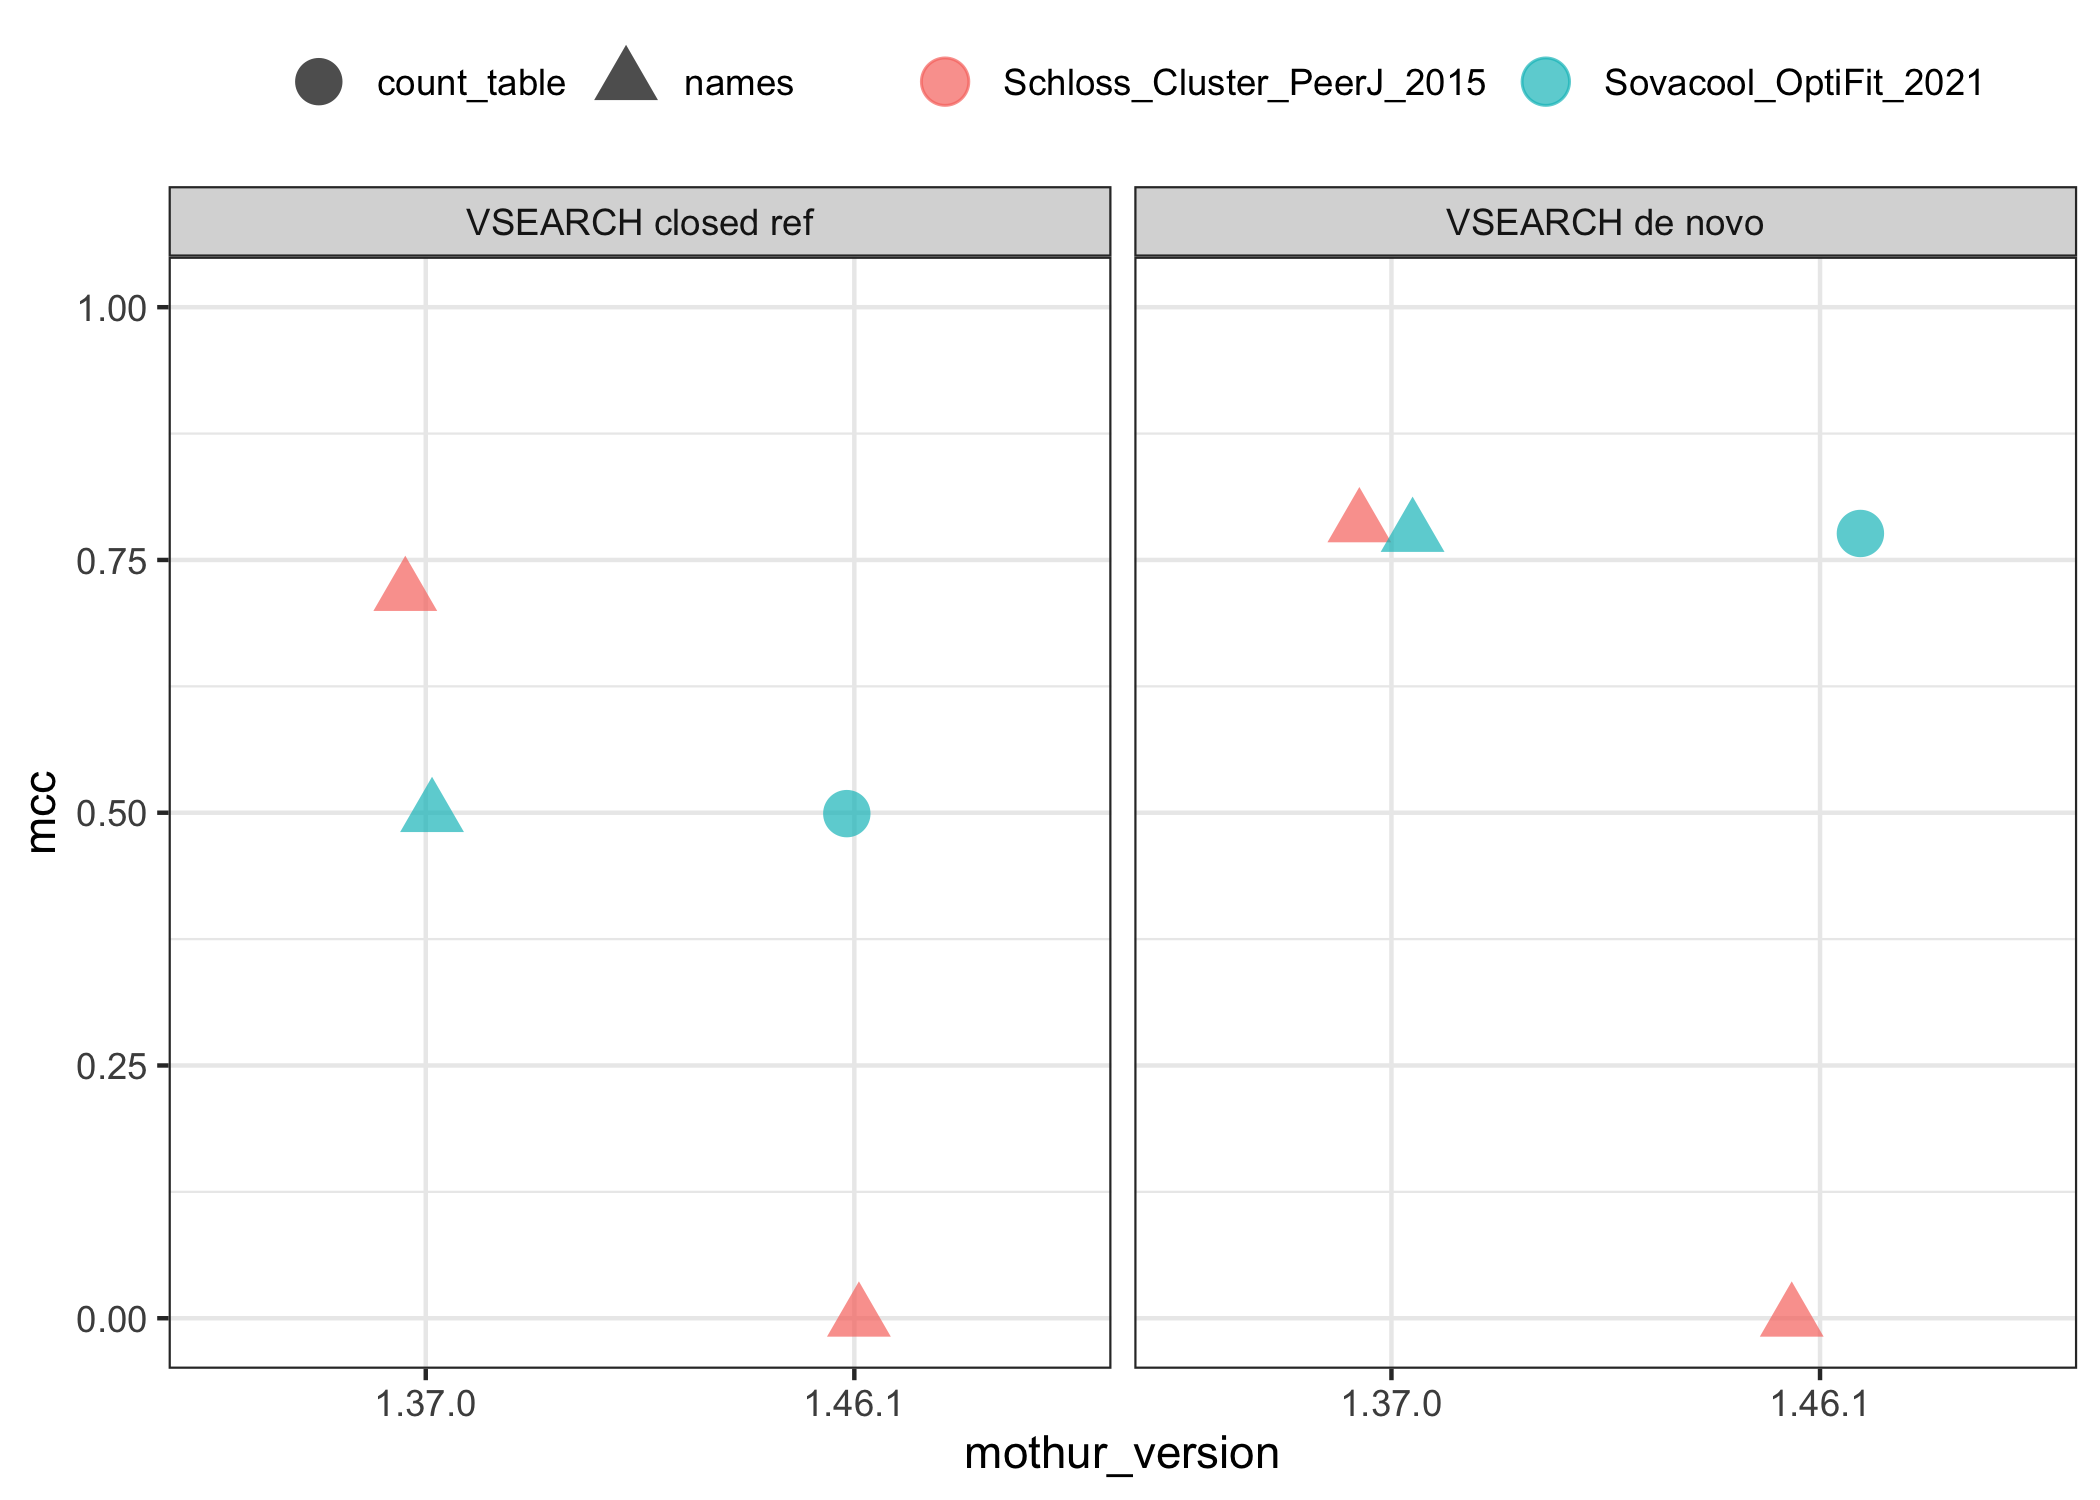
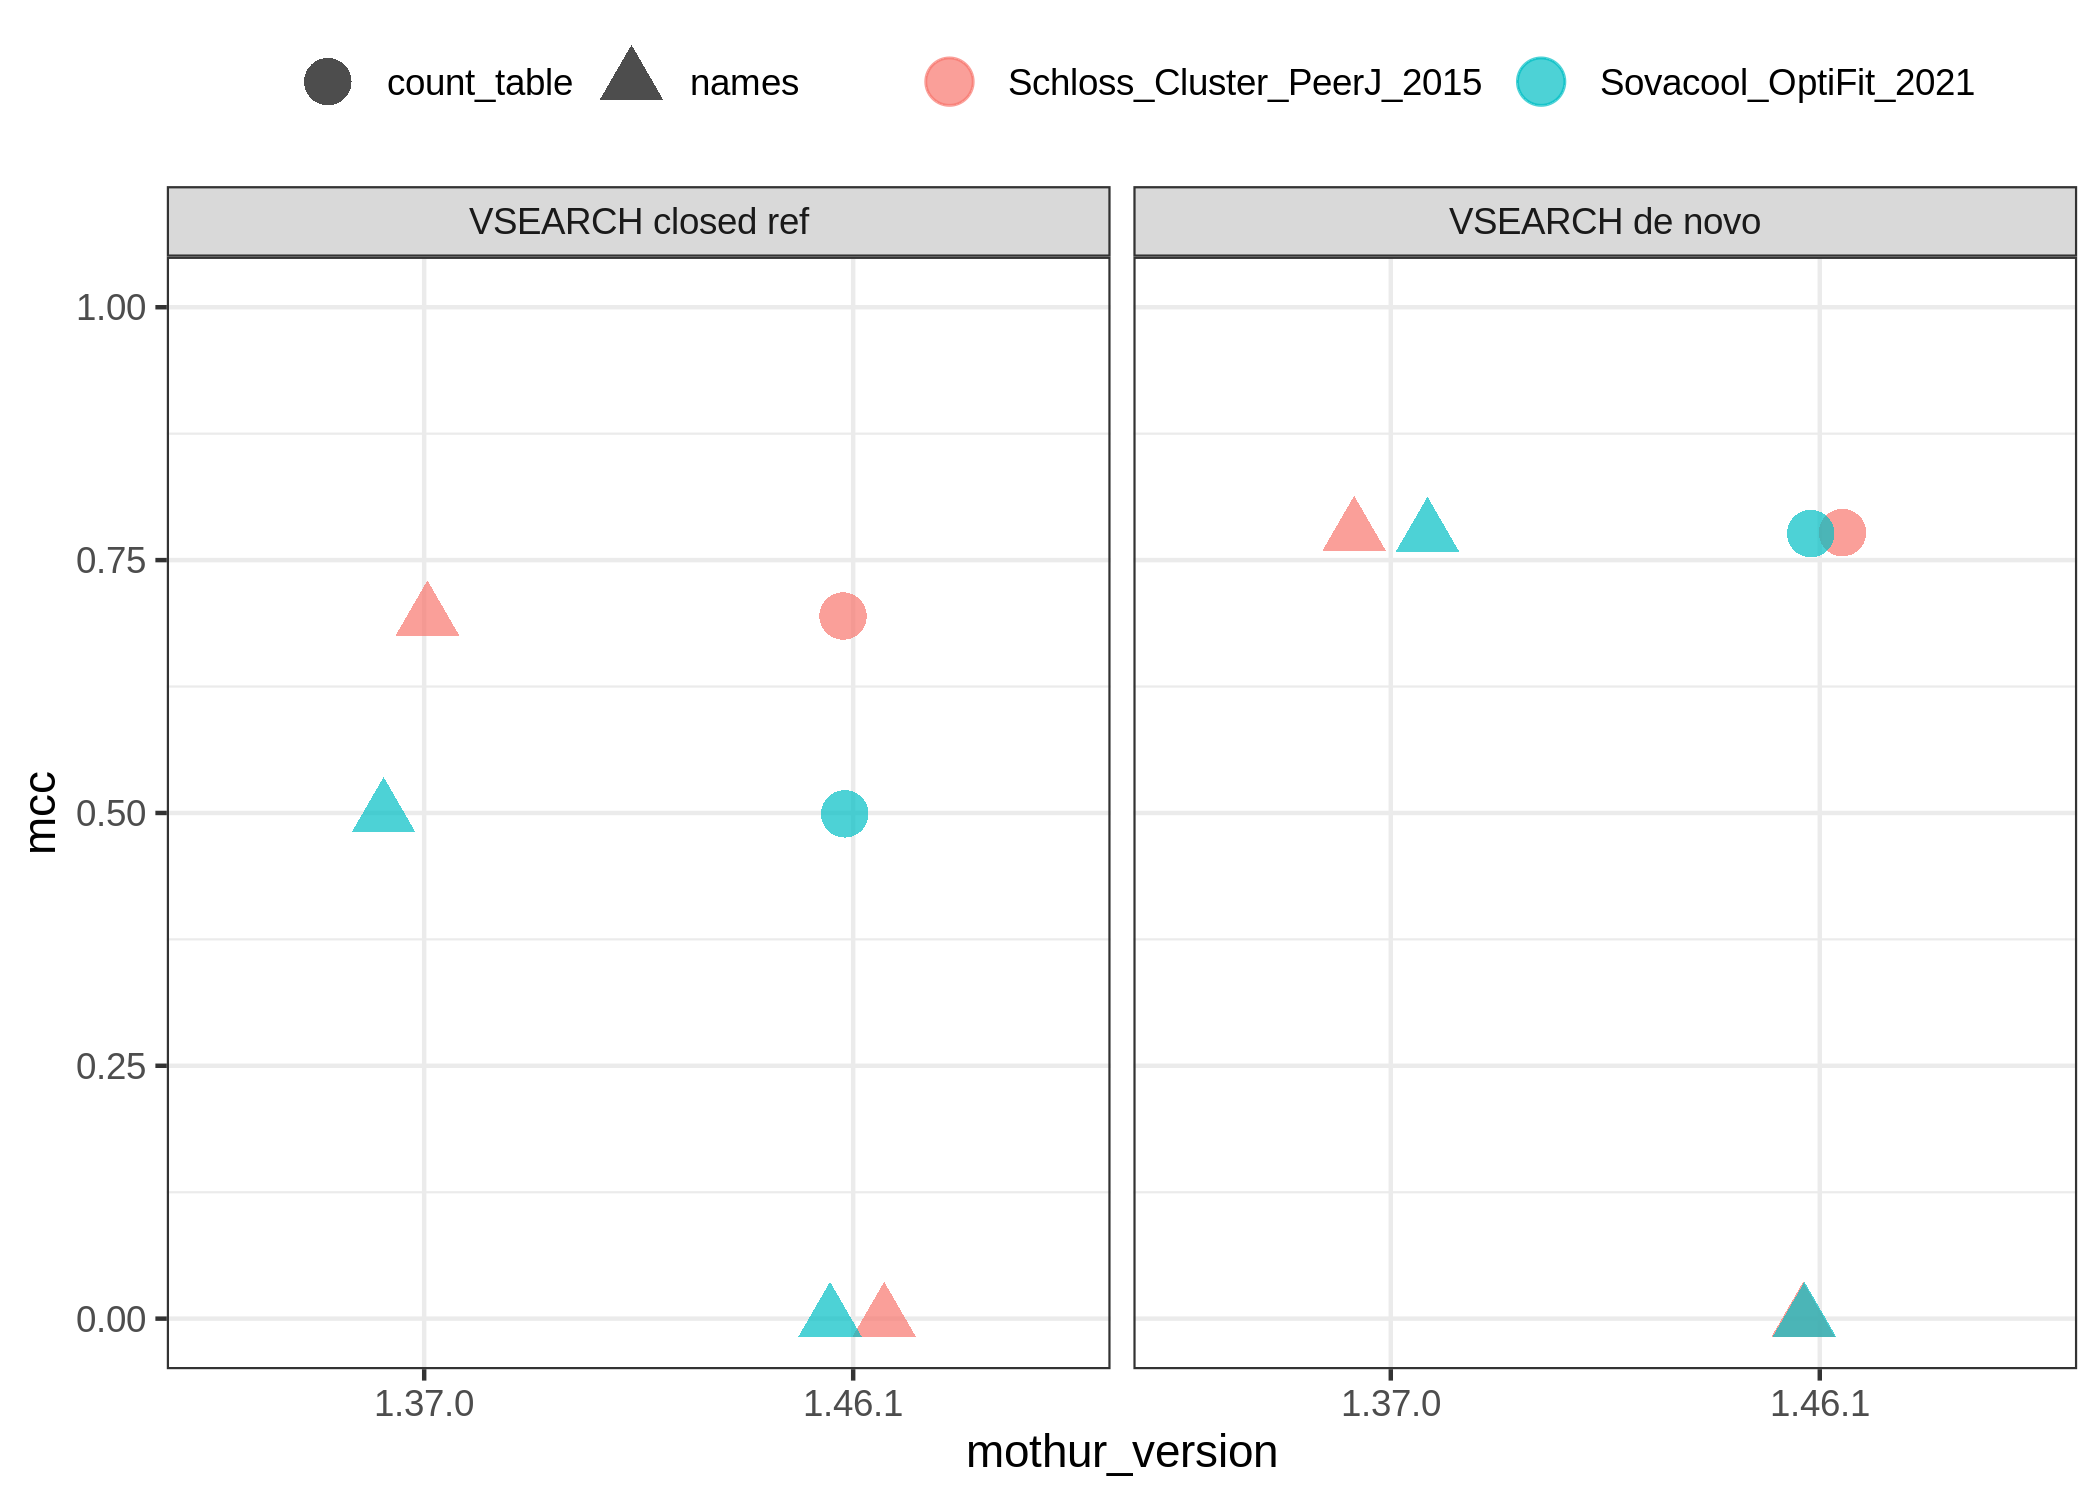
Run all combinations of parameter's with Pat's original data

diff --git a/README.md b/README.md
@@ -8,9 +8,8 @@ set.seed(20211014)
 ```
 
 ``` r
-dat <- read_tsv(here('results', 'sensspec_concat.tsv')) %>% 
-  mutate(num_otus = sobs,
-         paper = case_when(dataset == 'miseq_1.0_01' ~ 'Schloss_Cluster_PeerJ_2015',
+dat <- read_tsv(here('results', 'sensspec_concat.tsv')) %>%
+  mutate(paper = case_when(dataset == 'miseq_1.0_01' ~ 'Schloss_Cluster_PeerJ_2015',
                            dataset == 'mouse' ~ 'Sovacool_OptiFit_2021',
                            TRUE ~ 'unknown'),
          method = case_when(cluster_method == 'vdgc' ~ 'VSEARCH de novo',
@@ -18,36 +17,41 @@ dat <- read_tsv(here('results', 'sensspec_concat.tsv')) %>%
                             TRUE ~ 'unknown'))
 ```
 
-    ## New names:
-    ## * label...19 -> label...22
-
-    ## Rows: 8 Columns: 22
-
-    ## ── Column specification ────────────────────────────────────────────────────────
-    ## Delimiter: "\t"
-    ## chr  (7): label...1, mothur_version, dataset, filetype, cluster_method, labe...
-    ## dbl (15): cutoff, numotus, tp, tn, fp, fn, sensitivity, specificity, ppv, np...
-
     ## 
-    ## ℹ Use `spec()` to retrieve the full column specification for this data.
-    ## ℹ Specify the column types or set `show_col_types = FALSE` to quiet this message.
+    ## ── Column specification ─────────────────────────────────────────────────────────────────────────────────
+    ## cols(
+    ##   .default = col_double(),
+    ##   label...1 = col_character(),
+    ##   label...15 = col_character(),
+    ##   mothur_version = col_character(),
+    ##   dataset = col_character(),
+    ##   filetype = col_character(),
+    ##   cluster_method = col_character(),
+    ##   label = col_logical(),
+    ##   label...16 = col_character()
+    ## )
+    ## ℹ Use `spec()` for the full column specifications.
 
 ``` r
-dat %>% 
+dat %>%
   select(dataset, cluster_method, mothur_version, filetype, mcc, num_otus) %>%
   knitr::kable()
 ```
 
-| dataset      | cluster_method | mothur_version | filetype    |    mcc | num_otus |
-|:-------------|:---------------|:---------------|:------------|-------:|---------:|
-| miseq_1.0_01 | vdgc           | 1.46.1         | names       | 0.0000 |     2114 |
-| miseq_1.0_01 | cvsearch       | 1.46.1         | names       | 0.0000 |      862 |
-| miseq_1.0_01 | vdgc           | 1.37.0         | names       | 0.7857 |     2114 |
-| miseq_1.0_01 | cvsearch       | 1.37.0         | names       | 0.7178 |      862 |
-| mouse        | vdgc           | 1.37.0         | names       | 0.7762 |     2113 |
-| mouse        | cvsearch       | 1.37.0         | names       | 0.4991 |      870 |
-| mouse        | vdgc           | 1.46.1         | count_table | 0.7762 |     2113 |
-| mouse        | cvsearch       | 1.46.1         | count_table | 0.4991 |      870 |
+| dataset        | cluster\_method | mothur\_version | filetype     |    mcc | num\_otus |
+| :------------- | :-------------- | :-------------- | :----------- | -----: | --------: |
+| miseq\_1.0\_01 | vdgc            | 1.37.0          | names        | 0.7772 |      1977 |
+| miseq\_1.0\_01 | cvsearch        | 1.37.0          | names        | 0.6935 |       864 |
+| miseq\_1.0\_01 | vdgc            | 1.46.1          | names        | 0.0000 |      1977 |
+| miseq\_1.0\_01 | cvsearch        | 1.46.1          | names        | 0.0000 |       864 |
+| miseq\_1.0\_01 | vdgc            | 1.46.1          | count\_table | 0.7772 |      1977 |
+| miseq\_1.0\_01 | cvsearch        | 1.46.1          | count\_table | 0.6947 |       864 |
+| mouse          | vdgc            | 1.37.0          | names        | 0.7762 |      2113 |
+| mouse          | cvsearch        | 1.37.0          | names        | 0.4991 |       870 |
+| mouse          | vdgc            | 1.46.1          | names        | 0.0000 |      2113 |
+| mouse          | cvsearch        | 1.46.1          | names        | 0.0000 |       870 |
+| mouse          | vdgc            | 1.46.1          | count\_table | 0.7762 |      2113 |
+| mouse          | cvsearch        | 1.46.1          | count\_table | 0.4991 |       870 |
 
 ``` r
 dat %>% ggplot(aes(x=mothur_version, y=mcc, color=dataset, shape=filetype)) +
